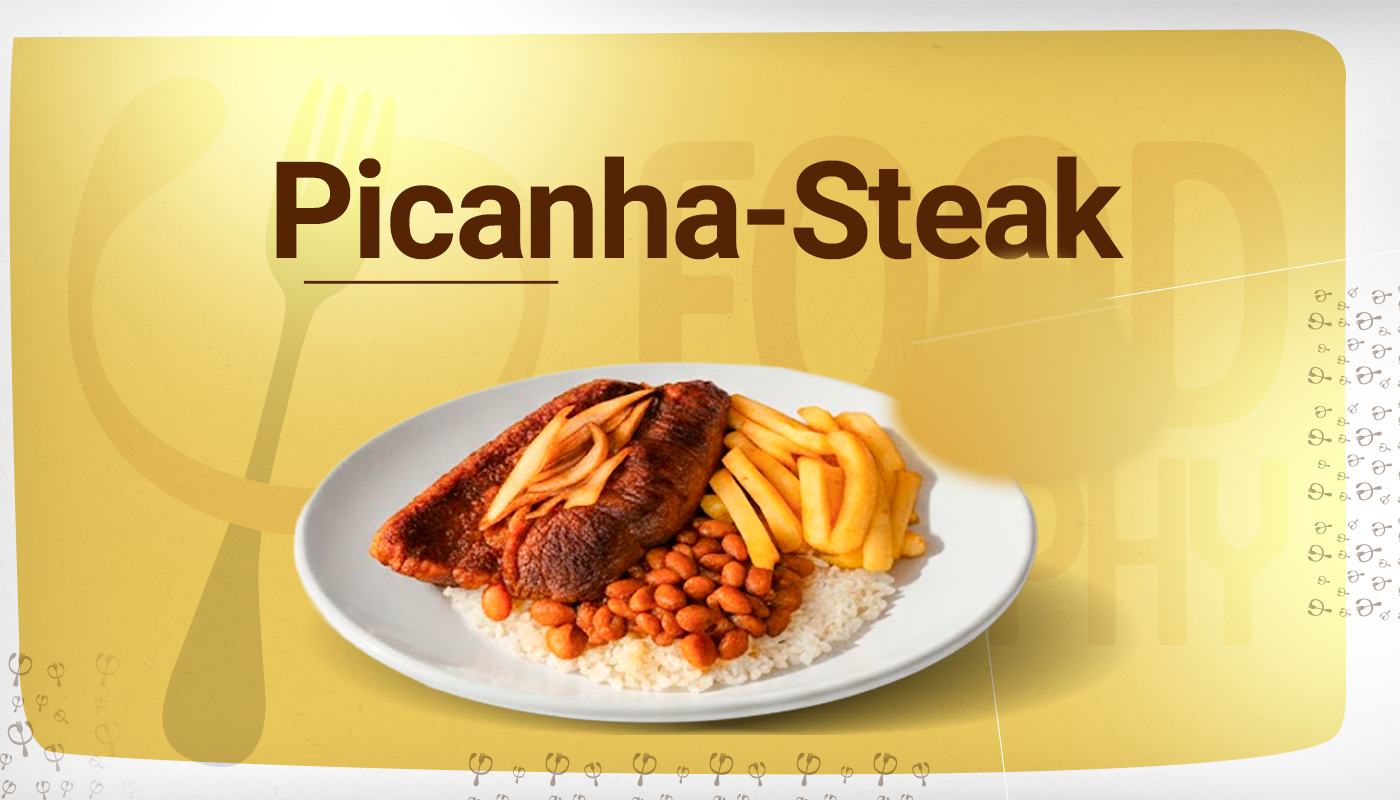
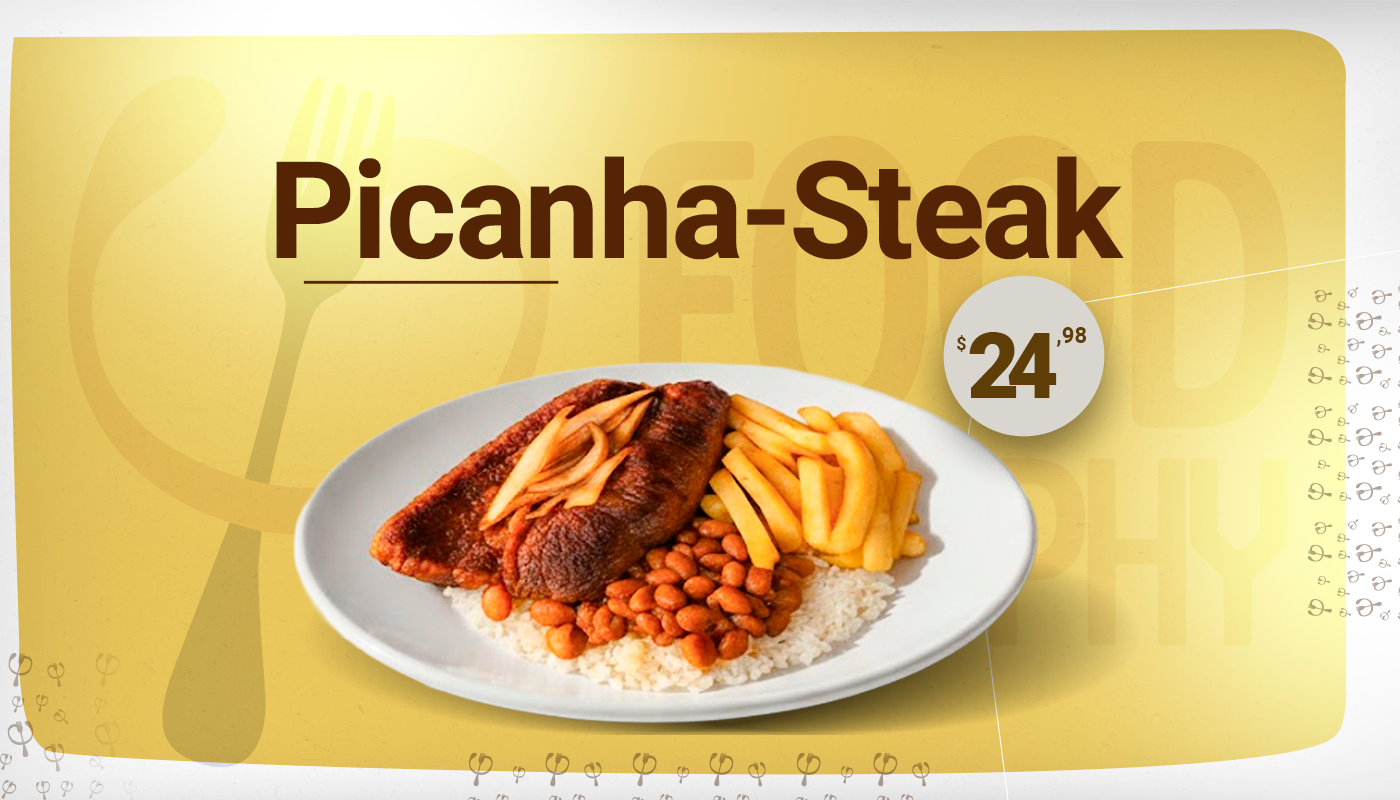
Refine hero slider and price treatment

Changed region(s): [[0.6143, 0.3125, 0.7986, 0.625]]

diff --git a/src/main.js b/src/main.js
@@ -166,32 +166,59 @@ function Header() {
 
 function Hero() {
   const slides = [
-    ["hero-picanha-steak.png", "Picanha Steak banner"],
-    ["hero-chicken-crepe.png", "Chicken crepe banner"],
-    ["hero-horseback-steak.png", "Horseback steak banner"],
+    {
+      image: "hero-picanha-steak.png",
+      alt: "Picanha Steak banner",
+      label: "Brazilian classic",
+    },
+    {
+      image: "hero-chicken-crepe.png",
+      alt: "Chicken crepe banner",
+      label: "Made from scratch",
+    },
+    {
+      image: "hero-horseback-steak.png",
+      alt: "Horseback steak banner",
+      label: "House favorite",
+    },
   ];
 
   return `
     <section class="hero" aria-label="Foodlosophy highlights">
-      <div class="hero-slider">
+      <div class="hero-slider" aria-roledescription="carousel" aria-label="Featured dishes">
         ${slides
           .map(
-            ([image, alt], index) => `
-              <img
-                class="hero-slide"
-                src="${A}${image}"
-                alt="${alt}"
-                width="1400"
-                height="800"
-                style="--slide-index: ${index}"
-                ${index === 0 ? 'fetchpriority="high"' : 'loading="lazy"'}
-              />
+            ({ image, alt, label }, index) => `
+              <div
+                class="hero-slide ${index === 0 ? "is-active" : ""}"
+                aria-hidden="${index === 0 ? "false" : "true"}"
+              >
+                <img
+                  src="${A}${image}"
+                  alt="${alt}"
+                  width="1400"
+                  height="800"
+                  ${index === 0 ? 'fetchpriority="high"' : 'loading="lazy"'}
+                />
+                <span class="hero-label">${label}</span>
+              </div>
             `,
           )
           .join("")}
       </div>
-      <div class="hero-dots" aria-hidden="true">
-        ${slides.map((_, index) => `<span style="--slide-index: ${index}"></span>`).join("")}
+      <div class="hero-dots" aria-label="Choose featured dish">
+        ${slides
+          .map(
+            ({ alt }, index) => `
+              <button
+                type="button"
+                aria-label="Show ${alt.replace(" banner", "")}"
+                aria-current="${index === 0 ? "true" : "false"}"
+                data-slide="${index}"
+              ></button>
+            `,
+          )
+          .join("")}
       </div>
       <a class="button hero-button" href="${orderUrl}" target="_blank" rel="noopener">Order Now</a>
     </section>
@@ -391,20 +418,76 @@ function App() {
 document.querySelector("#app").innerHTML = App();
 
 const toggle = document.querySelector(".menu-toggle");
+const toggleLabel = toggle.querySelector(".sr-only");
 const nav = document.querySelector("#primary-nav");
+const heroSlider = document.querySelector(".hero-slider");
+const heroSlides = [...document.querySelectorAll(".hero-slide")];
+const heroDots = [...document.querySelectorAll(".hero-dots button")];
+const reduceMotion = window.matchMedia("(prefers-reduced-motion: reduce)");
+let activeHeroSlide = 0;
+let heroTimer;
+
+function setMenuOpen(open) {
+  toggle.setAttribute("aria-expanded", String(open));
+  toggleLabel.textContent = open ? "Close menu" : "Open menu";
+  nav.classList.toggle("is-open", open);
+}
 
 toggle.addEventListener("click", () => {
-  const open = toggle.getAttribute("aria-expanded") === "true";
-  toggle.setAttribute("aria-expanded", String(!open));
-  nav.classList.toggle("is-open", !open);
+  setMenuOpen(toggle.getAttribute("aria-expanded") !== "true");
 });
 
 nav.addEventListener("click", (event) => {
   if (event.target.matches("a")) {
-    toggle.setAttribute("aria-expanded", "false");
-    nav.classList.remove("is-open");
+    setMenuOpen(false);
   }
 });
+
+function showHeroSlide(index) {
+  activeHeroSlide = (index + heroSlides.length) % heroSlides.length;
+
+  heroSlides.forEach((slide, slideIndex) => {
+    const active = slideIndex === activeHeroSlide;
+    slide.classList.toggle("is-active", active);
+    slide.setAttribute("aria-hidden", String(!active));
+  });
+
+  heroDots.forEach((dot, dotIndex) => {
+    dot.setAttribute("aria-current", String(dotIndex === activeHeroSlide));
+  });
+}
+
+function stopHeroRotation() {
+  window.clearInterval(heroTimer);
+}
+
+function startHeroRotation() {
+  stopHeroRotation();
+  if (!reduceMotion.matches) {
+    heroTimer = window.setInterval(() => showHeroSlide(activeHeroSlide + 1), 5500);
+  }
+}
+
+heroDots.forEach((dot) => {
+  dot.addEventListener("click", () => {
+    showHeroSlide(Number(dot.dataset.slide));
+    startHeroRotation();
+  });
+});
+
+heroSlider.addEventListener("mouseenter", stopHeroRotation);
+heroSlider.addEventListener("mouseleave", startHeroRotation);
+heroSlider.addEventListener("focusin", stopHeroRotation);
+heroSlider.addEventListener("focusout", startHeroRotation);
+reduceMotion.addEventListener("change", startHeroRotation);
+document.addEventListener("visibilitychange", () => {
+  if (document.hidden) {
+    stopHeroRotation();
+  } else {
+    startHeroRotation();
+  }
+});
+startHeroRotation();
 
 const revealTargets = [
   document.querySelector(".hero-slider"),

diff --git a/src/styles.css b/src/styles.css
@@ -241,14 +241,51 @@ button:focus-visible {
 .hero-slide {
   position: absolute;
   inset: 0;
+  overflow: hidden;
+  width: 100%;
+  height: 100%;
+  opacity: 0;
+  pointer-events: none;
+  transform: scale(1.015);
+  transition: opacity 800ms ease, transform 1400ms cubic-bezier(0.22, 1, 0.36, 1);
+  will-change: opacity, transform;
+}
+
+.hero-slide.is-active {
+  z-index: 1;
+  opacity: 1;
+  pointer-events: auto;
+  transform: scale(1);
+}
+
+.hero-slide img {
   width: 100%;
   height: 100%;
   object-fit: cover;
   object-position: center;
-  opacity: 0;
-  animation: heroFade 15s infinite ease-in-out;
-  animation-delay: calc(var(--slide-index) * 5s);
-  will-change: opacity;
+}
+
+.hero-label {
+  position: absolute;
+  top: 32%;
+  left: 64.5%;
+  z-index: 2;
+  display: grid;
+  place-items: center;
+  width: 16%;
+  height: 24%;
+  padding: 1.2%;
+  border: 1px solid rgba(255, 255, 255, 0.35);
+  border-radius: 8px;
+  background: var(--green);
+  color: var(--white);
+  font-family: "Nunito Sans", "Nunito", sans-serif;
+  font-size: clamp(8px, 1.35vw, 19px);
+  font-weight: 1000;
+  line-height: 1.1;
+  text-align: center;
+  text-transform: uppercase;
+  box-shadow: 0 18px 34px rgba(41, 56, 32, 0.22);
 }
 
 .hero-button {
@@ -262,46 +299,32 @@ button:focus-visible {
   position: absolute;
   left: 50%;
   bottom: 110px;
-  z-index: 2;
+  z-index: 3;
   display: flex;
   gap: 9px;
   transform: translateX(-50%);
 }
 
-.hero-dots span {
-  width: 9px;
-  height: 9px;
+.hero-dots button {
+  width: 10px;
+  height: 10px;
+  padding: 0;
+  border: 0;
   border-radius: 999px;
-  background: rgba(56, 100, 61, 0.28);
-  animation: dotPulse 15s infinite ease-in-out;
-  animation-delay: calc(var(--slide-index) * 5s);
+  background: rgba(56, 100, 61, 0.42);
+  box-shadow: 0 0 0 1px rgba(255, 255, 255, 0.75);
+  cursor: pointer;
+  transition: width 180ms ease, background-color 180ms ease, transform 180ms ease;
 }
 
-@keyframes heroFade {
-  0%,
-  29% {
-    opacity: 1;
-  }
-  33%,
-  96% {
-    opacity: 0;
-  }
-  100% {
-    opacity: 1;
-  }
+.hero-dots button:hover {
+  background: rgba(56, 100, 61, 0.65);
+  transform: scale(1.15);
 }
 
-@keyframes dotPulse {
-  0%,
-  29% {
-    background: var(--green);
-    transform: scale(1.35);
-  }
-  33%,
-  100% {
-    background: rgba(56, 100, 61, 0.28);
-    transform: scale(1);
-  }
+.hero-dots button[aria-current="true"] {
+  width: 28px;
+  background: var(--green);
 }
 
 .reveal {
@@ -927,6 +950,13 @@ button:focus-visible {
     border-radius: 0 0 18px 0;
   }
 
+  .hero-label {
+    left: 64%;
+    width: 18%;
+    height: 25%;
+    font-size: clamp(8px, 1.8vw, 14px);
+  }
+
   .hero-button {
     left: 50%;
     bottom: 42px;
@@ -1049,8 +1079,29 @@ button:focus-visible {
     border-radius: 0 0 12px 0;
   }
 
+  .hero-label {
+    top: 31.5%;
+    left: 63.5%;
+    width: 20%;
+    height: 26%;
+    padding: 1%;
+    border-radius: 5px;
+    font-size: 8px;
+    box-shadow: 0 8px 16px rgba(41, 56, 32, 0.2);
+  }
+
   .hero-dots {
-    display: none;
+    bottom: 72px;
+    gap: 7px;
+  }
+
+  .hero-dots button {
+    width: 8px;
+    height: 8px;
+  }
+
+  .hero-dots button[aria-current="true"] {
+    width: 22px;
   }
 
   .button {